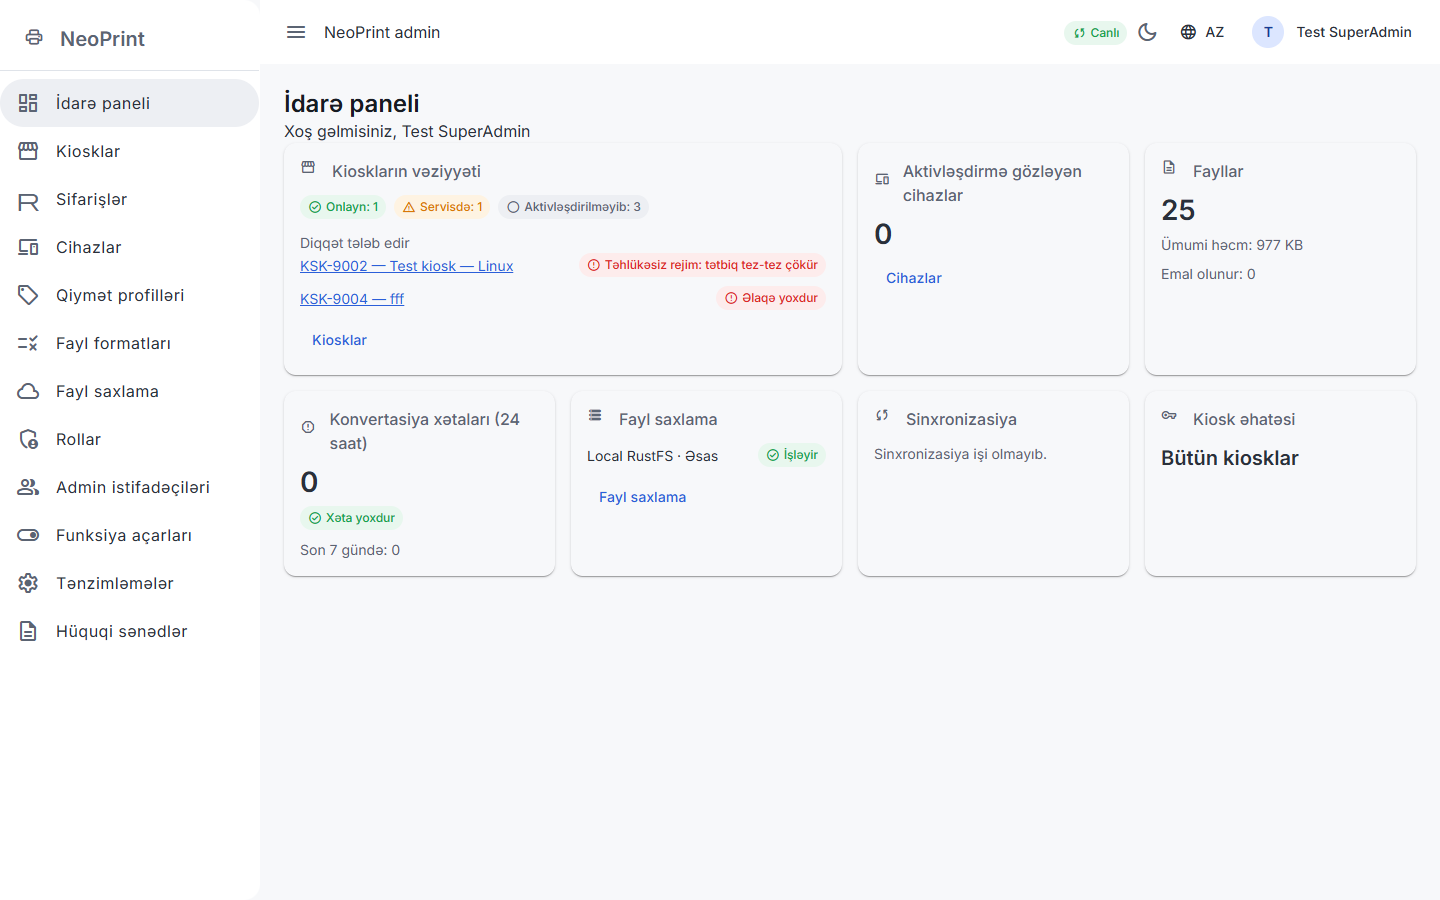
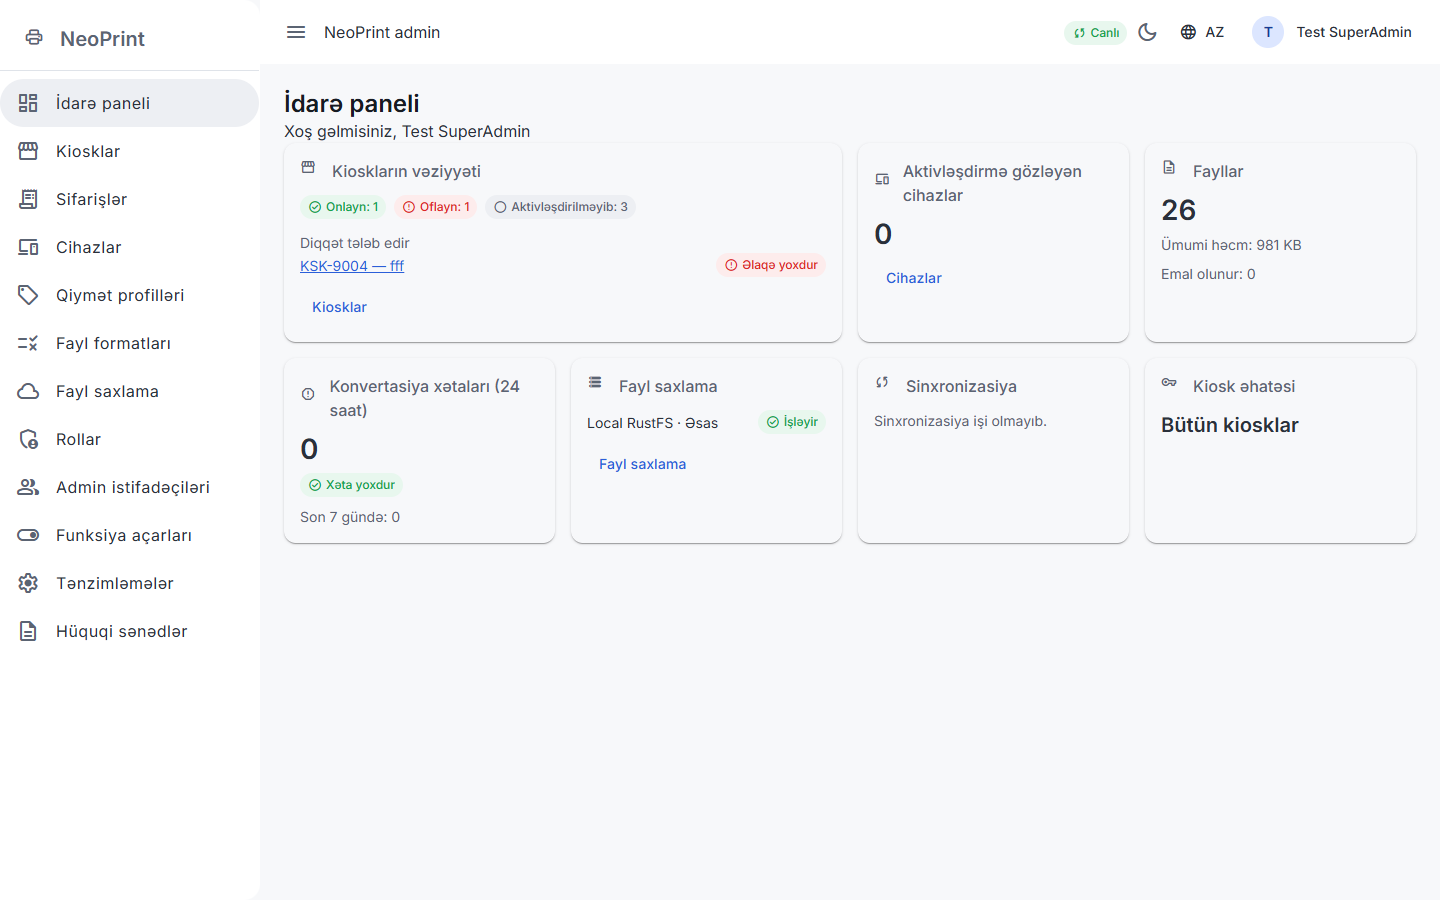
fix(admin): dashboard kiosk counts treat a silent kiosk as offline (T-091)

diff --git a/admin/src/app/features/dashboard/kiosk-attention.spec.ts b/admin/src/app/features/dashboard/kiosk-attention.spec.ts
@@ -1,7 +1,7 @@
 import { describe, expect, it } from 'vitest';
 
 import { KioskListItem } from '../../core/api/admin-api.service';
-import { attentionFor, staleHeartbeatMs } from './dashboard.component';
+import { attentionFor, shownStatus, staleHeartbeatMs } from './dashboard.component';
 
 function kiosk(overrides: Partial<KioskListItem> = {}): KioskListItem {
   return {
@@ -26,7 +26,9 @@ describe('attentionFor', () => {
   });
 
   it('names the most urgent reason only', () => {
-    expect(attentionFor(kiosk({ status: 'Offline', safeModeSince: '2026-09-28T10:00:00Z' }))?.reason).toBe('safeMode');
+    expect(
+      attentionFor(kiosk({ status: 'Offline', safeModeSince: '2026-09-28T10:00:00Z' }))?.reason,
+    ).toBe('safeMode');
     expect(attentionFor(kiosk({ status: 'Offline', paperA4Current: 0 }))?.reason).toBe('offline');
     expect(attentionFor(kiosk({ status: 'NotConfigured' }))?.reason).toBe('notConfigured');
     expect(attentionFor(kiosk({ status: 'Paused', paperA4Current: 0 }))?.reason).toBe('noPaper');
@@ -48,8 +50,30 @@ describe('attentionFor', () => {
     const now = Date.parse('2026-09-29T12:00:00Z');
     const at = (ms: number) => new Date(now - ms).toISOString();
 
-    expect(attentionFor(kiosk({ lastHeartbeatAt: at(staleHeartbeatMs + 1000) }), now)?.reason).toBe('offline');
+    expect(attentionFor(kiosk({ lastHeartbeatAt: at(staleHeartbeatMs + 1000) }), now)?.reason).toBe(
+      'offline',
+    );
     expect(attentionFor(kiosk({ lastHeartbeatAt: at(staleHeartbeatMs - 1000) }), now)).toBeNull();
-    expect(attentionFor(kiosk({ lastHeartbeatAt: null, status: 'NotConfigured' }), now)?.reason).toBe('notConfigured');
+    expect(
+      attentionFor(kiosk({ lastHeartbeatAt: null, status: 'NotConfigured' }), now)?.reason,
+    ).toBe('notConfigured');
+  });
+});
+
+describe('shownStatus', () => {
+  // The count above the attention list must not call "Online" a kiosk the list calls out of touch (T-091).
+  it('counts a silent kiosk as offline and leaves the rest as stored', () => {
+    const now = Date.parse('2026-09-29T12:00:00Z');
+    const silent = new Date(now - staleHeartbeatMs - 1000).toISOString();
+
+    expect(shownStatus(kiosk({ lastHeartbeatAt: silent }), now)).toBe('Offline');
+    expect(shownStatus(kiosk({ status: 'Paused', lastHeartbeatAt: silent }), now)).toBe('Offline');
+    expect(shownStatus(kiosk(), now)).toBe('Online');
+    expect(shownStatus(kiosk({ lastHeartbeatAt: null, status: 'NotConfigured' }), now)).toBe(
+      'NotConfigured',
+    );
+    expect(shownStatus(kiosk({ status: 'Disabled', lastHeartbeatAt: silent }), now)).toBe(
+      'Disabled',
+    );
   });
 });

diff --git a/admin/src/app/features/dashboard/dashboard.component.ts b/admin/src/app/features/dashboard/dashboard.component.ts
@@ -35,18 +35,39 @@ export interface KioskAttention {
 }
 
 /**
- * The one reason a kiosk is listed for, or null when it needs nothing. A
- * disabled or not yet activated kiosk is not expected to serve anyone.
- */
-/**
  * A kiosk whose last heartbeat is older than this has lost its connection,
  * whatever its stored status says: the monitor that turns the status Offline
  * comes with step 7 (plan section 7, KioskHeartbeatMonitor; docs/TASKS.md T-083).
  */
 export const staleHeartbeatMs = 5 * 60 * 1000;
 
+const isSilent = (kiosk: KioskListItem, now: number): boolean =>
+  !!kiosk.lastHeartbeatAt && now - new Date(kiosk.lastHeartbeatAt).getTime() > staleHeartbeatMs;
+
+/**
+ * The status the dashboard counts a kiosk under: its stored status, except
+ * that a silent kiosk is Offline - so the counts and the attention list below
+ * them tell the same story (docs/TASKS.md T-091). A disabled or not yet
+ * activated kiosk is not expected to send anything.
+ */
+export function shownStatus(kiosk: KioskListItem, now = Date.now()): KioskStatus {
+  if (kiosk.status === 'Disabled' || kiosk.status === 'NotActivated') {
+    return kiosk.status;
+  }
+
+  return isSilent(kiosk, now) ? 'Offline' : kiosk.status;
+}
+
+/**
+ * The one reason a kiosk is listed for, or null when it needs nothing. A
+ * disabled or not yet activated kiosk is not expected to serve anyone.
+ */
 export function attentionFor(kiosk: KioskListItem, now = Date.now()): KioskAttention | null {
-  const make = (reason: AttentionReason, tone: StatusTone, params: Record<string, unknown> = {}) => ({
+  const make = (
+    reason: AttentionReason,
+    tone: StatusTone,
+    params: Record<string, unknown> = {},
+  ) => ({
     kiosk,
     reason,
     tone,
@@ -57,7 +78,7 @@ export function attentionFor(kiosk: KioskListItem, now = Date.now()): KioskAtten
     return null;
   }
 
-  if (kiosk.lastHeartbeatAt && now - new Date(kiosk.lastHeartbeatAt).getTime() > staleHeartbeatMs) {
+  if (isSilent(kiosk, now)) {
     return make('offline', 'danger');
   }
 
@@ -165,7 +186,10 @@ export class DashboardComponent {
     const list = this.kiosks() ?? [];
 
     return kioskStatuses
-      .map((status: KioskStatus) => ({ status, count: list.filter((kiosk) => kiosk.status === status).length }))
+      .map((status: KioskStatus) => ({
+        status,
+        count: list.filter((kiosk) => shownStatus(kiosk) === status).length,
+      }))
       .filter((entry) => entry.count > 0);
   });
 

diff --git a/docs/DECISIONS.md b/docs/DECISIONS.md
@@ -241,4 +241,4 @@ Format: `tarix | addım | qərar | səbəb`
 | 2026-09-29 | 3 | **Kiosk firewall-u (M7):** planın "çıxış yalnız backend-ə (443)" bəndi əvəzinə dar allowlist: DNS 53, NTP 123, HTTP 80, HTTPS 443 + yalnız yerli şəbəkələrə printer portları (IPP 631, raw 9100, LPD 515, SNMP 161, mDNS 5353); daxil olan hər şey bloklanır; konvertor proqramları / `neoprint-convert` hesabı üçün çıxış tam bağlıdır | Yalnız 443 buraxılsa DNS olmadan backend-in adı açılmaz, NTP olmadan saat sürüşər (token, TTL), şəbəkə printerinə çap və SNMP sayğacı (print_attempts) işləməz; HTTP 80 CRL/OCSP yoxlaması və OS yeniləmələri üçündür. Backend-in IP-sinə bağlamaq (DNS dəyişəndə kiosku qırar) Addım 8-in sərtləşdirməsinə qalır |
 | 2026-09-29 | 3 | **Windows provisioning (M7):** Shell Launcher **v2** MDM bridge (`MDM_AssignedAccess.ShellLauncher`) ilə tətbiq olunur — bridge yalnız SYSTEM-i qəbul etdiyi üçün bir dəfəlik planlaşdırılmış tapşırıqla; Shell Launcher və Keyboard Filter ilk dəfə yandırılanda restart lazımdır, skript bunu deyir və ikinci qaçış konfiqurasiyanı tamamlayır. Avtomatik giriş parolu LSA secret-dədir (`LsaStorePrivateData`), hər qaçışda yenilənir. `C:\ProgramData\NeoPrint` ACL-i plan kimi yalnız SYSTEM + kiosk; `prepare-image.ps1` təmizlik üçün müvəqqəti `takeown` edir və sonda administratoru yenidən çıxarır | Plan v2 və "parol registry-də açıq mətn deyil" deyir. Sysinternals Autologon kənar alətdir — eyni API skriptin içindədir. Restart-sız konfiqurasiya mümkün deyil (WMI sinifləri komponent aktivləşdikdən sonra yaranır) |
 | 2026-09-29 | 3 | **Gizli admin çıxışı (M7):** loqoya 3 san-də 5 toxunuş → ekran klaviaturası ilə admin PIN (backend-in PBKDF2 hash-ı ilə kioskda yoxlanır; format bir yerdə — `NeoPrint.Crypto.SecretHash`) → menyu: təhlükəsiz rejimdən çıx, yenidən başlat, texniki giriş (Windows: `kiosk` hesabından çıxış → administrator hesabı ilə Explorer; Linux: `neoprint-maintenance.service` → `tty1` konsol login). 5 səhv PIN → 5 dəq kilid. Aktivləşdirilməmiş kioskda PIN yoxdur, ekrandan çıxış da yoxdur — bərpa yolu `KIOSK_SETUP.md`-də (Shift ilə avtomatik girişi keçmək / GRUB recovery). Development-də in-process klaviatura bloku (`Kiosk:Lockdown`) söndürülüb | "OS-ə çıxmaq mümkün deyil (admin PIN istisna)" (DoD). PIN kioskda saxlanmır, yalnız hash-ı konfiqurasiya ilə gəlir; ekran klaviaturası fiziki klaviatura bloklananda da işləyir (T-072) |
-| 2026-09-29 | 3 | **Dashboard-da köhnə heartbeat (T-083):** kiosku `Offline` edən `KioskHeartbeatMonitor` planda Addım 7-dədir; o vaxta qədər dashboard-ın "Kioskların vəziyyəti" kartı son heartbeat-i 5 dəqiqədən köhnə olan kiosku statusundan asılı olmayaraq "Əlaqə yoxdur" kimi diqqət siyahısına salır. Kioskun saxlanan statusu dəyişmir (backend-ə yazan iş yoxdur), status sayları saxlanan statusu göstərir. Addım 7-də monitor gələndə bu qayda monitorun `OfflineAfterSeconds` dəyərinə uyğunlaşdırılır və ya çıxarılır. |
+| 2026-09-29 | 3 | **Dashboard-da köhnə heartbeat (T-083):** kiosku `Offline` edən `KioskHeartbeatMonitor` planda Addım 7-dədir; o vaxta qədər dashboard-ın "Kioskların vəziyyəti" kartı son heartbeat-i 5 dəqiqədən köhnə olan kiosku statusundan asılı olmayaraq "Əlaqə yoxdur" kimi diqqət siyahısına salır. Kioskun saxlanan statusu dəyişmir (backend-ə yazan iş yoxdur). Kartdakı status sayları da eyni qaydanı tətbiq edir — belə kiosk "Onlayn" yox, "Oflayn" sayına düşür, yoxsa eyni kartda sayla siyahı bir-birinə zidd olur (T-091). Addım 7-də monitor gələndə bu qayda monitorun `OfflineAfterSeconds` dəyərinə uyğunlaşdırılır və ya çıxarılır. |
